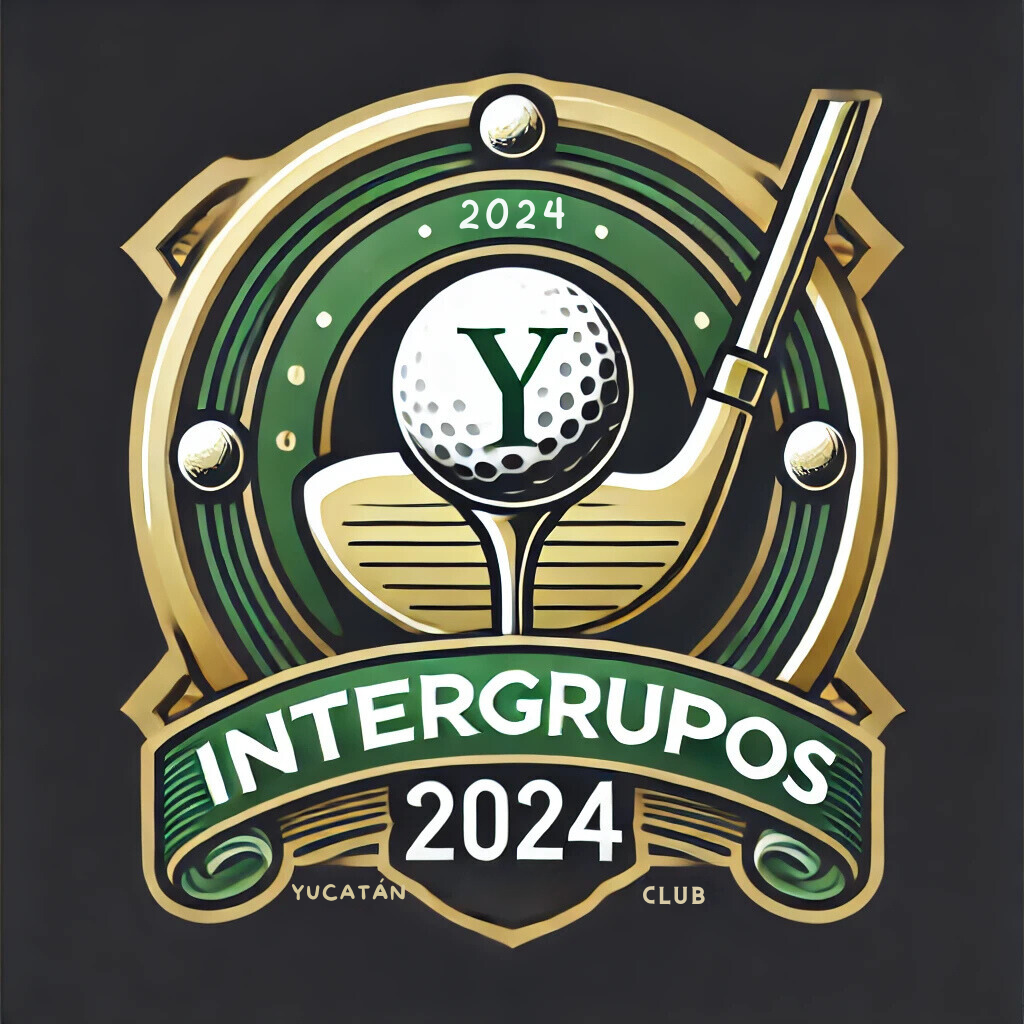
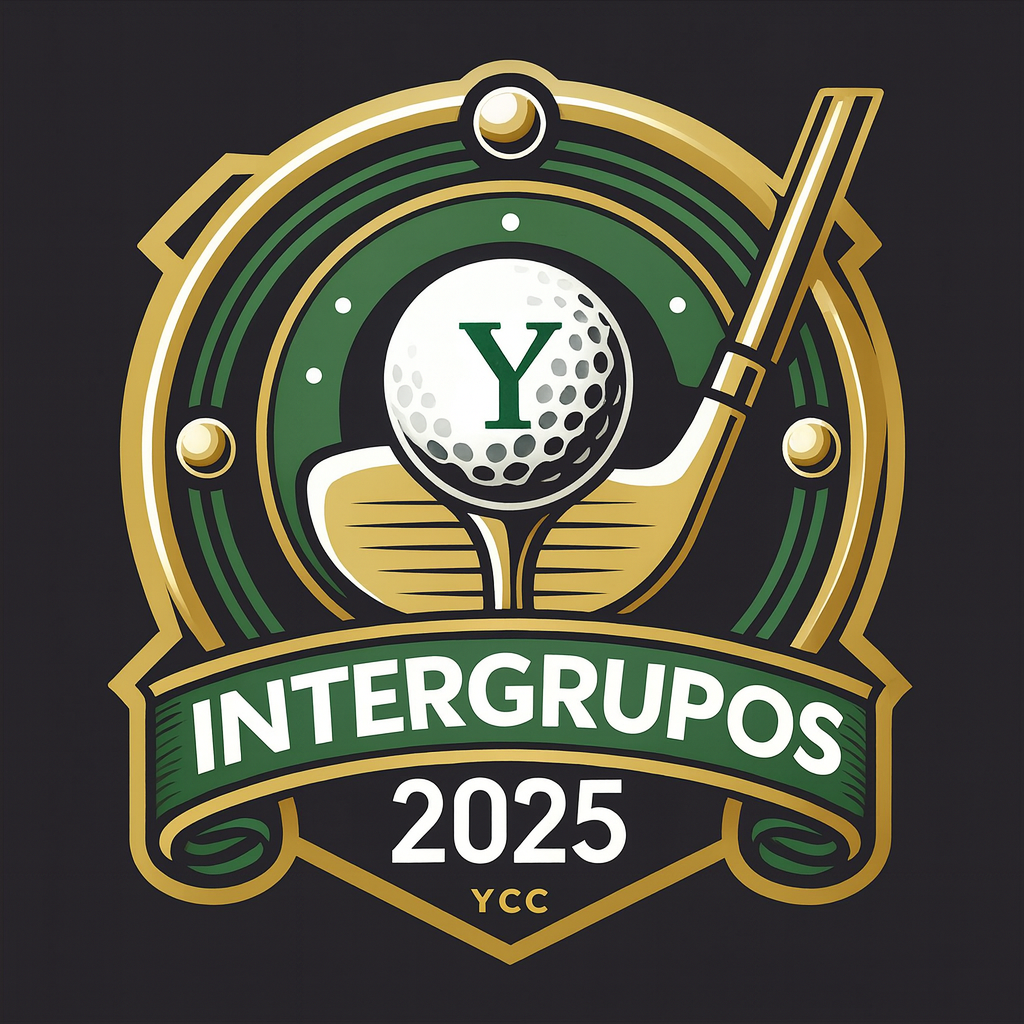
Version 6.1 de Noviembre

diff --git a/pages/raffle.tsx b/pages/raffle.tsx
@@ -339,7 +339,7 @@ const Raffle: NextPage = () => {
                 <div className={styles.logo__container}>
                     <Image src={Logo} width={213} height={200} alt="YCC"/>
                 </div>
-                <h1 className={styles.title}>TORNEO INTERGRUPOS 2024</h1>
+                <h1 className={styles.title}>TORNEO INTERGRUPOS 2025</h1>
             </div>
 
             {/* DFuture Logo image */}
